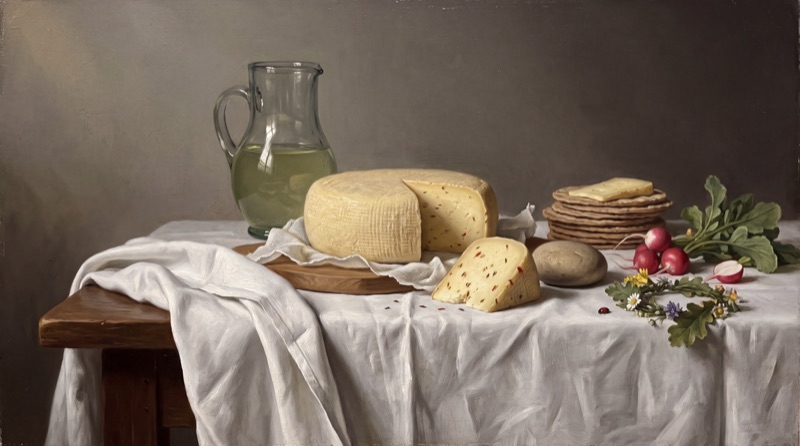
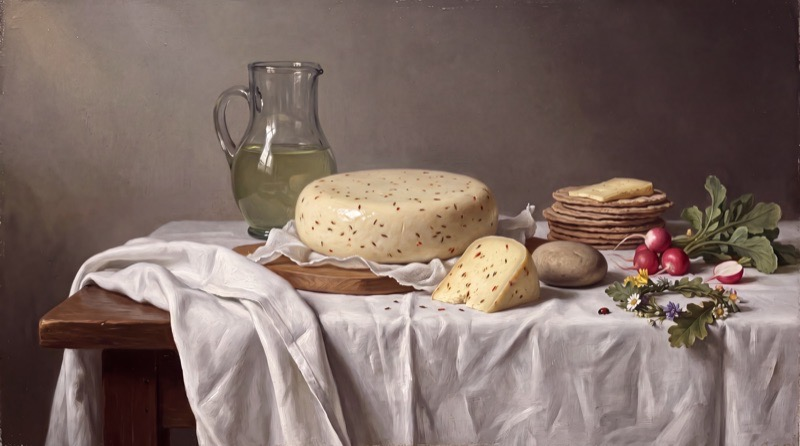
March, June, September: revised paintings (paska with nuts, currants and candied peel; low pale Jāņu siers with caraway; tiramisu in a glass dish with eggshells)

diff --git a/public/en/index.html b/public/en/index.html
@@ -13,7 +13,7 @@
 <meta property="og:description" content="Twelve recipes from Latvians in Sweden – one for every month.">
 <meta property="og:type" content="article">
 <meta property="og:url" content="https://zlk2027.latviesi.se/en/">
-<meta property="og:image" content="https://zlk2027.latviesi.se/img/marts.jpg?v=a1621e96">
+<meta property="og:image" content="https://zlk2027.latviesi.se/img/marts.jpg?v=913b0f5b">
 <meta name="theme-color" content="#fdfbf2">
 <link rel="icon" href="/favicon.svg" type="image/svg+xml">
 <link rel="preconnect" href="https://fonts.googleapis.com">
@@ -52,7 +52,7 @@
   <p class="credit">Valdis Dzelzkalējs, Stockholm</p>
 </a>
 <a class="card" href="/en/marts/">
-  <figure class="visual"><img src="/img/marts.jpg?v=a1621e96" srcset="/img/marts-800.jpg?v=7c944557 800w, /img/marts.jpg?v=a1621e96 1600w" sizes="(min-width: 1000px) 360px, (min-width: 560px) 50vw, 100vw" width="1600" height="893" alt="Easter paska – Birziņa's curd cheese dessert, Māra's way" loading="lazy"></figure>
+  <figure class="visual"><img src="/img/marts.jpg?v=913b0f5b" srcset="/img/marts-800.jpg?v=9d1ba5d1 800w, /img/marts.jpg?v=913b0f5b 1600w" sizes="(min-width: 1000px) 360px, (min-width: 560px) 50vw, 100vw" width="1600" height="893" alt="Easter paska – Birziņa's curd cheese dessert, Māra's way" loading="lazy"></figure>
   <p class="month-line">March</p>
   <h2 class="recipe-title">Easter paska&nbsp;– Birziņa's curd cheese dessert, Māra's way</h2>
   <p class="credit">Māra Krēsliņa, Stockholm</p>
@@ -70,7 +70,7 @@
   <p class="credit">Vineta Kalniņa-Soleimani, Sollentuna</p>
 </a>
 <a class="card" href="/en/junijs/">
-  <figure class="visual"><img src="/img/junijs.jpg?v=6bf63961" srcset="/img/junijs-800.jpg?v=7e0156e5 800w, /img/junijs.jpg?v=6bf63961 1600w" sizes="(min-width: 1000px) 360px, (min-width: 560px) 50vw, 100vw" width="1600" height="893" alt="Quick Jāņi cheese from Auči – Latvian midsummer cheese" loading="lazy"></figure>
+  <figure class="visual"><img src="/img/junijs.jpg?v=bb08381c" srcset="/img/junijs-800.jpg?v=34d5fdd8 800w, /img/junijs.jpg?v=bb08381c 1600w" sizes="(min-width: 1000px) 360px, (min-width: 560px) 50vw, 100vw" width="1600" height="893" alt="Quick Jāņi cheese from Auči – Latvian midsummer cheese" loading="lazy"></figure>
   <p class="month-line">June</p>
   <h2 class="recipe-title">Quick Jāņi cheese from Auči&nbsp;– Latvian midsummer cheese</h2>
   <p class="credit">Šarlote Cērps, Stockholm</p>
@@ -88,7 +88,7 @@
   <p class="credit">Laila Strunke, Stockholm</p>
 </a>
 <a class="card" href="/en/septembris/">
-  <figure class="visual"><img src="/img/septembris.jpg?v=6c03976d" srcset="/img/septembris-800.jpg?v=ca51b315 800w, /img/septembris.jpg?v=6c03976d 1600w" sizes="(min-width: 1000px) 360px, (min-width: 560px) 50vw, 100vw" width="1600" height="893" alt="Tiramisu from Bērzgale" loading="lazy"></figure>
+  <figure class="visual"><img src="/img/septembris.jpg?v=e97b7655" srcset="/img/septembris-800.jpg?v=ac7df926 800w, /img/septembris.jpg?v=e97b7655 1600w" sizes="(min-width: 1000px) 360px, (min-width: 560px) 50vw, 100vw" width="1600" height="893" alt="Tiramisu from Bērzgale" loading="lazy"></figure>
   <p class="month-line">September</p>
   <h2 class="recipe-title">Tiramisu from Bērzgale</h2>
   <p class="credit">Sofija Ieva Otisone, Sigtuna</p>

diff --git a/public/sv/index.html b/public/sv/index.html
@@ -13,7 +13,7 @@
 <meta property="og:description" content="Tolv recept från letter i Sverige – ett för varje månad.">
 <meta property="og:type" content="article">
 <meta property="og:url" content="https://zlk2027.latviesi.se/sv/">
-<meta property="og:image" content="https://zlk2027.latviesi.se/img/marts.jpg?v=a1621e96">
+<meta property="og:image" content="https://zlk2027.latviesi.se/img/marts.jpg?v=913b0f5b">
 <meta name="theme-color" content="#fdfbf2">
 <link rel="icon" href="/favicon.svg" type="image/svg+xml">
 <link rel="preconnect" href="https://fonts.googleapis.com">
@@ -52,7 +52,7 @@
   <p class="credit">Valdis Dzelzkalējs, Stockholm</p>
 </a>
 <a class="card" href="/sv/marts/">
-  <figure class="visual"><img src="/img/marts.jpg?v=a1621e96" srcset="/img/marts-800.jpg?v=7c944557 800w, /img/marts.jpg?v=a1621e96 1600w" sizes="(min-width: 1000px) 360px, (min-width: 560px) 50vw, 100vw" width="1600" height="893" alt="Påskpaska – Birziņas kvargdessert på Māras vis" loading="lazy"></figure>
+  <figure class="visual"><img src="/img/marts.jpg?v=913b0f5b" srcset="/img/marts-800.jpg?v=9d1ba5d1 800w, /img/marts.jpg?v=913b0f5b 1600w" sizes="(min-width: 1000px) 360px, (min-width: 560px) 50vw, 100vw" width="1600" height="893" alt="Påskpaska – Birziņas kvargdessert på Māras vis" loading="lazy"></figure>
   <p class="month-line">Mars</p>
   <h2 class="recipe-title">Påskpaska&nbsp;– Birziņas kvargdessert på Māras vis</h2>
   <p class="credit">Māra Krēsliņa, Stockholm</p>
@@ -70,7 +70,7 @@
   <p class="credit">Vineta Kalniņa-Soleimani, Sollentuna</p>
 </a>
 <a class="card" href="/sv/junijs/">
-  <figure class="visual"><img src="/img/junijs.jpg?v=6bf63961" srcset="/img/junijs-800.jpg?v=7e0156e5 800w, /img/junijs.jpg?v=6bf63961 1600w" sizes="(min-width: 1000px) 360px, (min-width: 560px) 50vw, 100vw" width="1600" height="893" alt="Snabb Jāņi-ost från Auči – lettisk midsommarost" loading="lazy"></figure>
+  <figure class="visual"><img src="/img/junijs.jpg?v=bb08381c" srcset="/img/junijs-800.jpg?v=34d5fdd8 800w, /img/junijs.jpg?v=bb08381c 1600w" sizes="(min-width: 1000px) 360px, (min-width: 560px) 50vw, 100vw" width="1600" height="893" alt="Snabb Jāņi-ost från Auči – lettisk midsommarost" loading="lazy"></figure>
   <p class="month-line">Juni</p>
   <h2 class="recipe-title">Snabb Jāņi-ost från Auči&nbsp;– lettisk midsommarost</h2>
   <p class="credit">Šarlote Cērps, Stockholm</p>
@@ -88,7 +88,7 @@
   <p class="credit">Laila Strunke, Stockholm</p>
 </a>
 <a class="card" href="/sv/septembris/">
-  <figure class="visual"><img src="/img/septembris.jpg?v=6c03976d" srcset="/img/septembris-800.jpg?v=ca51b315 800w, /img/septembris.jpg?v=6c03976d 1600w" sizes="(min-width: 1000px) 360px, (min-width: 560px) 50vw, 100vw" width="1600" height="893" alt="Tiramisu från Bērzgale" loading="lazy"></figure>
+  <figure class="visual"><img src="/img/septembris.jpg?v=e97b7655" srcset="/img/septembris-800.jpg?v=ac7df926 800w, /img/septembris.jpg?v=e97b7655 1600w" sizes="(min-width: 1000px) 360px, (min-width: 560px) 50vw, 100vw" width="1600" height="893" alt="Tiramisu från Bērzgale" loading="lazy"></figure>
   <p class="month-line">September</p>
   <h2 class="recipe-title">Tiramisu från Bērzgale</h2>
   <p class="credit">Sofija Ieva Otisone, Sigtuna</p>

diff --git a/public/index.html b/public/index.html
@@ -13,7 +13,7 @@
 <meta property="og:description" content="Divpadsmit receptes no Zviedrijas latviešiem – katram mēnesim sava.">
 <meta property="og:type" content="article">
 <meta property="og:url" content="https://zlk2027.latviesi.se/">
-<meta property="og:image" content="https://zlk2027.latviesi.se/img/marts.jpg?v=a1621e96">
+<meta property="og:image" content="https://zlk2027.latviesi.se/img/marts.jpg?v=913b0f5b">
 <meta name="theme-color" content="#fdfbf2">
 <link rel="icon" href="/favicon.svg" type="image/svg+xml">
 <link rel="preconnect" href="https://fonts.googleapis.com">
@@ -52,7 +52,7 @@
   <p class="credit">Valdis Dzelzkalējs, Stokholma</p>
 </a>
 <a class="card" href="/marts/">
-  <figure class="visual"><img src="/img/marts.jpg?v=a1621e96" srcset="/img/marts-800.jpg?v=7c944557 800w, /img/marts.jpg?v=a1621e96 1600w" sizes="(min-width: 1000px) 360px, (min-width: 560px) 50vw, 100vw" width="1600" height="893" alt="Lieldienu paska jeb Birziņas biezpiena maisījums Māras gaumē" loading="lazy"></figure>
+  <figure class="visual"><img src="/img/marts.jpg?v=913b0f5b" srcset="/img/marts-800.jpg?v=9d1ba5d1 800w, /img/marts.jpg?v=913b0f5b 1600w" sizes="(min-width: 1000px) 360px, (min-width: 560px) 50vw, 100vw" width="1600" height="893" alt="Lieldienu paska jeb Birziņas biezpiena maisījums Māras gaumē" loading="lazy"></figure>
   <p class="month-line">Marts</p>
   <h2 class="recipe-title">Lieldienu paska jeb Birziņas biezpiena maisījums Māras gaumē</h2>
   <p class="credit">Māra Krēsliņa, Stokholma</p>
@@ -70,7 +70,7 @@
   <p class="credit">Vineta Kalniņa-Soleimani, Sollentuna</p>
 </a>
 <a class="card" href="/junijs/">
-  <figure class="visual"><img src="/img/junijs.jpg?v=6bf63961" srcset="/img/junijs-800.jpg?v=7e0156e5 800w, /img/junijs.jpg?v=6bf63961 1600w" sizes="(min-width: 1000px) 360px, (min-width: 560px) 50vw, 100vw" width="1600" height="893" alt="Auču ātrais Jāņu siers" loading="lazy"></figure>
+  <figure class="visual"><img src="/img/junijs.jpg?v=bb08381c" srcset="/img/junijs-800.jpg?v=34d5fdd8 800w, /img/junijs.jpg?v=bb08381c 1600w" sizes="(min-width: 1000px) 360px, (min-width: 560px) 50vw, 100vw" width="1600" height="893" alt="Auču ātrais Jāņu siers" loading="lazy"></figure>
   <p class="month-line">Jūnijs</p>
   <h2 class="recipe-title">Auču ātrais Jāņu siers</h2>
   <p class="credit">Šarlote Cērps, Stokholma</p>
@@ -88,7 +88,7 @@
   <p class="credit">Laila Strunke, Stokholma</p>
 </a>
 <a class="card" href="/septembris/">
-  <figure class="visual"><img src="/img/septembris.jpg?v=6c03976d" srcset="/img/septembris-800.jpg?v=ca51b315 800w, /img/septembris.jpg?v=6c03976d 1600w" sizes="(min-width: 1000px) 360px, (min-width: 560px) 50vw, 100vw" width="1600" height="893" alt="Bērzgales tiramisu" loading="lazy"></figure>
+  <figure class="visual"><img src="/img/septembris.jpg?v=e97b7655" srcset="/img/septembris-800.jpg?v=ac7df926 800w, /img/septembris.jpg?v=e97b7655 1600w" sizes="(min-width: 1000px) 360px, (min-width: 560px) 50vw, 100vw" width="1600" height="893" alt="Bērzgales tiramisu" loading="lazy"></figure>
   <p class="month-line">Septembris</p>
   <h2 class="recipe-title">Bērzgales tiramisu</h2>
   <p class="credit">Sofija Ieva Otisone, Sigtuna</p>

diff --git a/public/en/junijs/index.html b/public/en/junijs/index.html
@@ -13,7 +13,7 @@
 <meta property="og:description" content="Šarlote Cērps is a Stockholmer with family roots in Kuldīga, Riga and Rūjiena. She learned to make Jāņi cheese – the Latvian midsummer cheese with caraway –…">
 <meta property="og:type" content="article">
 <meta property="og:url" content="https://zlk2027.latviesi.se/en/junijs/">
-<meta property="og:image" content="https://zlk2027.latviesi.se/img/junijs.jpg?v=6bf63961">
+<meta property="og:image" content="https://zlk2027.latviesi.se/img/junijs.jpg?v=bb08381c">
 <meta name="theme-color" content="#fdfbf2">
 <link rel="icon" href="/favicon.svg" type="image/svg+xml">
 <link rel="preconnect" href="https://fonts.googleapis.com">
@@ -37,7 +37,7 @@
     <p class="year">2027</p>
     <p class="month">June</p>
   </header>
-  <figure class="visual"><img src="/img/junijs.jpg?v=6bf63961" srcset="/img/junijs-800.jpg?v=7e0156e5 800w, /img/junijs.jpg?v=6bf63961 1600w" sizes="(min-width: 1200px) 1120px, 100vw" width="1600" height="893" alt="Quick Jāņi cheese from Auči – Latvian midsummer cheese" fetchpriority="high"></figure>
+  <figure class="visual"><img src="/img/junijs.jpg?v=bb08381c" srcset="/img/junijs-800.jpg?v=34d5fdd8 800w, /img/junijs.jpg?v=bb08381c 1600w" sizes="(min-width: 1200px) 1120px, 100vw" width="1600" height="893" alt="Quick Jāņi cheese from Auči – Latvian midsummer cheese" fetchpriority="high"></figure>
   <section class="band">
     <div class="col col-1">
       <h1 class="recipe-title">Quick Jāņi cheese from Auči&nbsp;– Latvian midsummer cheese</h1>

diff --git a/public/marts/index.html b/public/marts/index.html
@@ -13,7 +13,7 @@
 <meta property="og:description" content="Māra Krēsliņa ir Ņujorkā augusi Stokholmas latviete. Viņas recepte nāk no 1936. gadā izdotās H. Birziņas pavārgrāmatas, ko Māras māsa Zuze savulaik…">
 <meta property="og:type" content="article">
 <meta property="og:url" content="https://zlk2027.latviesi.se/marts/">
-<meta property="og:image" content="https://zlk2027.latviesi.se/img/marts.jpg?v=a1621e96">
+<meta property="og:image" content="https://zlk2027.latviesi.se/img/marts.jpg?v=913b0f5b">
 <meta name="theme-color" content="#fdfbf2">
 <link rel="icon" href="/favicon.svg" type="image/svg+xml">
 <link rel="preconnect" href="https://fonts.googleapis.com">
@@ -37,7 +37,7 @@
     <p class="year">2027</p>
     <p class="month">Marts</p>
   </header>
-  <figure class="visual"><img src="/img/marts.jpg?v=a1621e96" srcset="/img/marts-800.jpg?v=7c944557 800w, /img/marts.jpg?v=a1621e96 1600w" sizes="(min-width: 1200px) 1120px, 100vw" width="1600" height="893" alt="Lieldienu paska jeb Birziņas biezpiena maisījums Māras gaumē" fetchpriority="high"></figure>
+  <figure class="visual"><img src="/img/marts.jpg?v=913b0f5b" srcset="/img/marts-800.jpg?v=9d1ba5d1 800w, /img/marts.jpg?v=913b0f5b 1600w" sizes="(min-width: 1200px) 1120px, 100vw" width="1600" height="893" alt="Lieldienu paska jeb Birziņas biezpiena maisījums Māras gaumē" fetchpriority="high"></figure>
   <section class="band">
     <div class="col col-1">
       <h1 class="recipe-title">Lieldienu paska jeb Birziņas biezpiena maisījums Māras gaumē</h1>

diff --git a/public/en/marts/index.html b/public/en/marts/index.html
@@ -13,7 +13,7 @@
 <meta property="og:description" content="Māra Krēsliņa is a Stockholm Latvian who grew up in New York. Her recipe comes from H. Birziņa's cookbook of 1936, which Māra's sister Zuze once copied in…">
 <meta property="og:type" content="article">
 <meta property="og:url" content="https://zlk2027.latviesi.se/en/marts/">
-<meta property="og:image" content="https://zlk2027.latviesi.se/img/marts.jpg?v=a1621e96">
+<meta property="og:image" content="https://zlk2027.latviesi.se/img/marts.jpg?v=913b0f5b">
 <meta name="theme-color" content="#fdfbf2">
 <link rel="icon" href="/favicon.svg" type="image/svg+xml">
 <link rel="preconnect" href="https://fonts.googleapis.com">
@@ -37,7 +37,7 @@
     <p class="year">2027</p>
     <p class="month">March</p>
   </header>
-  <figure class="visual"><img src="/img/marts.jpg?v=a1621e96" srcset="/img/marts-800.jpg?v=7c944557 800w, /img/marts.jpg?v=a1621e96 1600w" sizes="(min-width: 1200px) 1120px, 100vw" width="1600" height="893" alt="Easter paska – Birziņa's curd cheese dessert, Māra's way" fetchpriority="high"></figure>
+  <figure class="visual"><img src="/img/marts.jpg?v=913b0f5b" srcset="/img/marts-800.jpg?v=9d1ba5d1 800w, /img/marts.jpg?v=913b0f5b 1600w" sizes="(min-width: 1200px) 1120px, 100vw" width="1600" height="893" alt="Easter paska – Birziņa's curd cheese dessert, Māra's way" fetchpriority="high"></figure>
   <section class="band">
     <div class="col col-1">
       <h1 class="recipe-title">Easter paska&nbsp;– Birziņa's curd cheese dessert, Māra's way</h1>

diff --git a/public/sv/junijs/index.html b/public/sv/junijs/index.html
@@ -13,7 +13,7 @@
 <meta property="og:description" content="Šarlote Cērps är stockholmare med släktrötter i Kuldīga, Riga och Rūjiena. Hon lärde sig göra Jāņi-ost – den lettiska midsommarosten med kummin – hos en…">
 <meta property="og:type" content="article">
 <meta property="og:url" content="https://zlk2027.latviesi.se/sv/junijs/">
-<meta property="og:image" content="https://zlk2027.latviesi.se/img/junijs.jpg?v=6bf63961">
+<meta property="og:image" content="https://zlk2027.latviesi.se/img/junijs.jpg?v=bb08381c">
 <meta name="theme-color" content="#fdfbf2">
 <link rel="icon" href="/favicon.svg" type="image/svg+xml">
 <link rel="preconnect" href="https://fonts.googleapis.com">
@@ -37,7 +37,7 @@
     <p class="year">2027</p>
     <p class="month">Juni</p>
   </header>
-  <figure class="visual"><img src="/img/junijs.jpg?v=6bf63961" srcset="/img/junijs-800.jpg?v=7e0156e5 800w, /img/junijs.jpg?v=6bf63961 1600w" sizes="(min-width: 1200px) 1120px, 100vw" width="1600" height="893" alt="Snabb Jāņi-ost från Auči – lettisk midsommarost" fetchpriority="high"></figure>
+  <figure class="visual"><img src="/img/junijs.jpg?v=bb08381c" srcset="/img/junijs-800.jpg?v=34d5fdd8 800w, /img/junijs.jpg?v=bb08381c 1600w" sizes="(min-width: 1200px) 1120px, 100vw" width="1600" height="893" alt="Snabb Jāņi-ost från Auči – lettisk midsommarost" fetchpriority="high"></figure>
   <section class="band">
     <div class="col col-1">
       <h1 class="recipe-title">Snabb Jāņi-ost från Auči&nbsp;– lettisk midsommarost</h1>

diff --git a/public/sv/marts/index.html b/public/sv/marts/index.html
@@ -13,7 +13,7 @@
 <meta property="og:description" content="Māra Krēsliņa är en Stockholmslettiska som växte upp i New York. Hennes recept kommer ur H. Birziņas kokbok från 1936, som Māras syster Zuze en gång…">
 <meta property="og:type" content="article">
 <meta property="og:url" content="https://zlk2027.latviesi.se/sv/marts/">
-<meta property="og:image" content="https://zlk2027.latviesi.se/img/marts.jpg?v=a1621e96">
+<meta property="og:image" content="https://zlk2027.latviesi.se/img/marts.jpg?v=913b0f5b">
 <meta name="theme-color" content="#fdfbf2">
 <link rel="icon" href="/favicon.svg" type="image/svg+xml">
 <link rel="preconnect" href="https://fonts.googleapis.com">
@@ -37,7 +37,7 @@
     <p class="year">2027</p>
     <p class="month">Mars</p>
   </header>
-  <figure class="visual"><img src="/img/marts.jpg?v=a1621e96" srcset="/img/marts-800.jpg?v=7c944557 800w, /img/marts.jpg?v=a1621e96 1600w" sizes="(min-width: 1200px) 1120px, 100vw" width="1600" height="893" alt="Påskpaska – Birziņas kvargdessert på Māras vis" fetchpriority="high"></figure>
+  <figure class="visual"><img src="/img/marts.jpg?v=913b0f5b" srcset="/img/marts-800.jpg?v=9d1ba5d1 800w, /img/marts.jpg?v=913b0f5b 1600w" sizes="(min-width: 1200px) 1120px, 100vw" width="1600" height="893" alt="Påskpaska – Birziņas kvargdessert på Māras vis" fetchpriority="high"></figure>
   <section class="band">
     <div class="col col-1">
       <h1 class="recipe-title">Påskpaska&nbsp;– Birziņas kvargdessert på Māras vis</h1>

diff --git a/public/sv/septembris/index.html b/public/sv/septembris/index.html
@@ -13,7 +13,7 @@
 <meta property="og:description" content="Receptet har skickats in av Sofija Ieva Otisone från Sigtuna. Hennes mamma kommer från Kurland och pappa från Vidzeme, men tiramisun smakade hon i smyg i…">
 <meta property="og:type" content="article">
 <meta property="og:url" content="https://zlk2027.latviesi.se/sv/septembris/">
-<meta property="og:image" content="https://zlk2027.latviesi.se/img/septembris.jpg?v=6c03976d">
+<meta property="og:image" content="https://zlk2027.latviesi.se/img/septembris.jpg?v=e97b7655">
 <meta name="theme-color" content="#fdfbf2">
 <link rel="icon" href="/favicon.svg" type="image/svg+xml">
 <link rel="preconnect" href="https://fonts.googleapis.com">
@@ -37,7 +37,7 @@
     <p class="year">2027</p>
     <p class="month">September</p>
   </header>
-  <figure class="visual"><img src="/img/septembris.jpg?v=6c03976d" srcset="/img/septembris-800.jpg?v=ca51b315 800w, /img/septembris.jpg?v=6c03976d 1600w" sizes="(min-width: 1200px) 1120px, 100vw" width="1600" height="893" alt="Tiramisu från Bērzgale" fetchpriority="high"></figure>
+  <figure class="visual"><img src="/img/septembris.jpg?v=e97b7655" srcset="/img/septembris-800.jpg?v=ac7df926 800w, /img/septembris.jpg?v=e97b7655 1600w" sizes="(min-width: 1200px) 1120px, 100vw" width="1600" height="893" alt="Tiramisu från Bērzgale" fetchpriority="high"></figure>
   <section class="band">
     <div class="col col-1">
       <h1 class="recipe-title">Tiramisu från Bērzgale</h1>

diff --git a/public/en/septembris/index.html b/public/en/septembris/index.html
@@ -13,7 +13,7 @@
 <meta property="og:description" content="The recipe was sent in by Sofija Ieva Otisone from Sigtuna. Her mother comes from Courland and her father from Vidzeme, but she secretly tasted tiramisu in…">
 <meta property="og:type" content="article">
 <meta property="og:url" content="https://zlk2027.latviesi.se/en/septembris/">
-<meta property="og:image" content="https://zlk2027.latviesi.se/img/septembris.jpg?v=6c03976d">
+<meta property="og:image" content="https://zlk2027.latviesi.se/img/septembris.jpg?v=e97b7655">
 <meta name="theme-color" content="#fdfbf2">
 <link rel="icon" href="/favicon.svg" type="image/svg+xml">
 <link rel="preconnect" href="https://fonts.googleapis.com">
@@ -37,7 +37,7 @@
     <p class="year">2027</p>
     <p class="month">September</p>
   </header>
-  <figure class="visual"><img src="/img/septembris.jpg?v=6c03976d" srcset="/img/septembris-800.jpg?v=ca51b315 800w, /img/septembris.jpg?v=6c03976d 1600w" sizes="(min-width: 1200px) 1120px, 100vw" width="1600" height="893" alt="Tiramisu from Bērzgale" fetchpriority="high"></figure>
+  <figure class="visual"><img src="/img/septembris.jpg?v=e97b7655" srcset="/img/septembris-800.jpg?v=ac7df926 800w, /img/septembris.jpg?v=e97b7655 1600w" sizes="(min-width: 1200px) 1120px, 100vw" width="1600" height="893" alt="Tiramisu from Bērzgale" fetchpriority="high"></figure>
   <section class="band">
     <div class="col col-1">
       <h1 class="recipe-title">Tiramisu from Bērzgale</h1>

diff --git a/public/septembris/index.html b/public/septembris/index.html
@@ -13,7 +13,7 @@
 <meta property="og:description" content="Recepti iesūtījusi Sofija Ieva Otisone no Sigtunas. Viņas mamma nāk no Kurzemes, tētis – no Vidzemes, bet tiramisu viņa slepeni pagaršoja Bērzgalē, Rēzeknes…">
 <meta property="og:type" content="article">
 <meta property="og:url" content="https://zlk2027.latviesi.se/septembris/">
-<meta property="og:image" content="https://zlk2027.latviesi.se/img/septembris.jpg?v=6c03976d">
+<meta property="og:image" content="https://zlk2027.latviesi.se/img/septembris.jpg?v=e97b7655">
 <meta name="theme-color" content="#fdfbf2">
 <link rel="icon" href="/favicon.svg" type="image/svg+xml">
 <link rel="preconnect" href="https://fonts.googleapis.com">
@@ -37,7 +37,7 @@
     <p class="year">2027</p>
     <p class="month">Septembris</p>
   </header>
-  <figure class="visual"><img src="/img/septembris.jpg?v=6c03976d" srcset="/img/septembris-800.jpg?v=ca51b315 800w, /img/septembris.jpg?v=6c03976d 1600w" sizes="(min-width: 1200px) 1120px, 100vw" width="1600" height="893" alt="Bērzgales tiramisu" fetchpriority="high"></figure>
+  <figure class="visual"><img src="/img/septembris.jpg?v=e97b7655" srcset="/img/septembris-800.jpg?v=ac7df926 800w, /img/septembris.jpg?v=e97b7655 1600w" sizes="(min-width: 1200px) 1120px, 100vw" width="1600" height="893" alt="Bērzgales tiramisu" fetchpriority="high"></figure>
   <section class="band">
     <div class="col col-1">
       <h1 class="recipe-title">Bērzgales tiramisu</h1>

diff --git a/public/junijs/index.html b/public/junijs/index.html
@@ -13,7 +13,7 @@
 <meta property="og:description" content="Šarlote Cērps ir stokholmiete, kuras dzimtas saknes ir Kuldīgā, Rīgā un Rūjienā. Šarlote iemācījās siet Jāņu sieru, viesojoties pie kādas ASV latviešu…">
 <meta property="og:type" content="article">
 <meta property="og:url" content="https://zlk2027.latviesi.se/junijs/">
-<meta property="og:image" content="https://zlk2027.latviesi.se/img/junijs.jpg?v=6bf63961">
+<meta property="og:image" content="https://zlk2027.latviesi.se/img/junijs.jpg?v=bb08381c">
 <meta name="theme-color" content="#fdfbf2">
 <link rel="icon" href="/favicon.svg" type="image/svg+xml">
 <link rel="preconnect" href="https://fonts.googleapis.com">
@@ -37,7 +37,7 @@
     <p class="year">2027</p>
     <p class="month">Jūnijs</p>
   </header>
-  <figure class="visual"><img src="/img/junijs.jpg?v=6bf63961" srcset="/img/junijs-800.jpg?v=7e0156e5 800w, /img/junijs.jpg?v=6bf63961 1600w" sizes="(min-width: 1200px) 1120px, 100vw" width="1600" height="893" alt="Auču ātrais Jāņu siers" fetchpriority="high"></figure>
+  <figure class="visual"><img src="/img/junijs.jpg?v=bb08381c" srcset="/img/junijs-800.jpg?v=34d5fdd8 800w, /img/junijs.jpg?v=bb08381c 1600w" sizes="(min-width: 1200px) 1120px, 100vw" width="1600" height="893" alt="Auču ātrais Jāņu siers" fetchpriority="high"></figure>
   <section class="band">
     <div class="col col-1">
       <h1 class="recipe-title">Auču ātrais Jāņu siers</h1>
